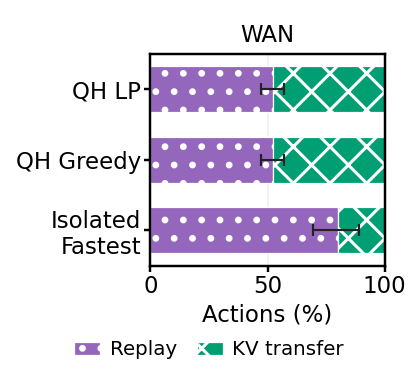
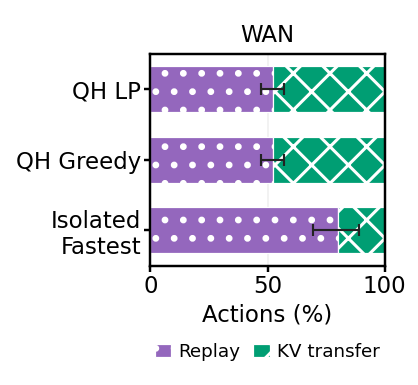
Align action mix legends with plot centers

Changed region(s): [[0.1555, 0.8727, 0.9019, 0.9351]]

diff --git a/agent-migrate/queue-haul/plot_wan_prefill_results.py b/agent-migrate/queue-haul/plot_wan_prefill_results.py
@@ -117,9 +117,9 @@ def plot(source, out):
         ax.xaxis.labelpad = 2
         ax.grid(axis="x", alpha=.2, linewidth=.5)
         ax.set_axisbelow(True)
-        fig.legend(*ax.get_legend_handles_labels(), loc="lower center", bbox_to_anchor=(.5, .02),
-                   ncol=2, frameon=False, fontsize=plot_style.HALF_COLUMN_LEGEND_FONT_SIZE,
-                   handlelength=1.3, handletextpad=.5, columnspacing=1, labelspacing=.3)
+        fig.legend(*ax.get_legend_handles_labels(), loc="lower center", bbox_to_anchor=(.64, .02),
+                   ncol=2, frameon=False, fontsize=6,
+                   handlelength=.9, handletextpad=.4, columnspacing=.7, labelspacing=.3)
         fig.subplots_adjust(left=.36, right=.92, bottom=.31, top=.86)
         for suffix in ("png", "pdf"):
             fig.savefig(out / f"{campaign}_action_mix.{suffix}")
